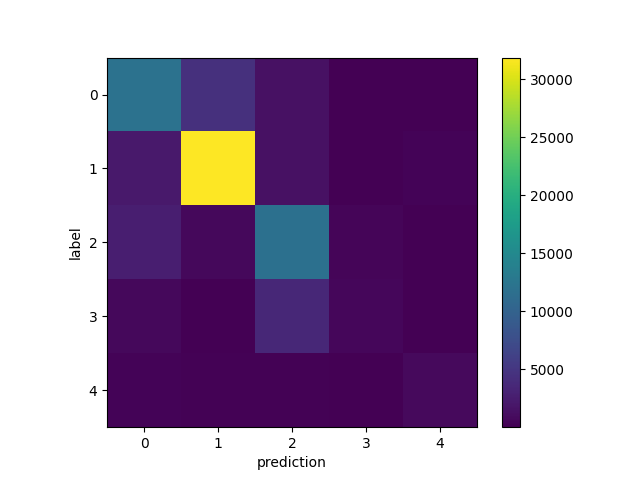
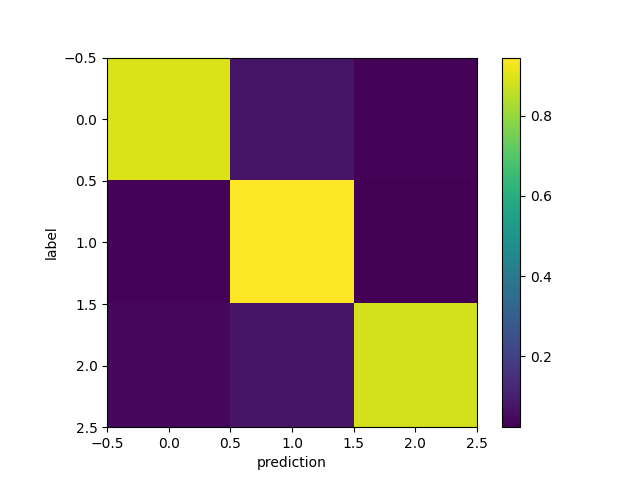
trained 90+% accuracy cnn, but for only 3 classes

diff --git a/scorer/data/loaders.py b/scorer/data/loaders.py
@@ -37,10 +37,12 @@ class SleepSignals(Dataset):
         self.channel_ylims = []
         
         self._load(data_path, score_path)
-                
+        
         #move to device after loading        
         self.all_samples = self.all_samples.to(device)
         self.all_labels = self.all_labels.to(device)
+        
+        self.mean, self.std = self._compute_mean_std() 
         
         self.device = device
         self.transform = transform
@@ -241,6 +243,18 @@ class SleepSignals(Dataset):
         print('ylims in loaders.py', ylims)
         return ylims
     
+    def _compute_mean_std(self):
+            """
+            compute mean and std of dataset per-channel (8 vals each)
+            """
+            X = self.all_samples
+            mean = X.mean(dim=(0, 2))
+            std  = X.std(dim=(0, 2))
+            # avoid divide by zero/low val in later norm
+            std[std < 1e-8] = 1.0
+            
+            return mean, std
+    
     
 class SleepTraining(Dataset):
     """
@@ -256,7 +270,11 @@ class SleepTraining(Dataset):
           3:'IS',
           4:'REM'
     """
-    def __init__(self, data_path, random_state = 0, n_files_to_pick = 100, device = 'cuda', transform = None, augment = False, metadata: dict = {}) -> None:
+    def __init__(self, data_path, random_state = 0,
+                 n_files_to_pick = 100, device = 'cuda', 
+                 transform = None, augment = False,
+                 metadata: dict = {}, balance: str = "none", # "none" | "undersample" | "oversample") -> None:
+                 exclude_labels: tuple = ()):  
         
         torch.manual_seed(random_state)
 
@@ -266,10 +284,16 @@ class SleepTraining(Dataset):
         self.all_labels = None
         
         self._load(data_path, n_files_to_pick)
+        
+        if balance != "none":
+            self._balance_labels(balance=balance, exclude_labels=exclude_labels, seed=random_state)
+            self._remap_labels_to_contiguous()
                 
         #move to device after loading        
         self.all_samples = self.all_samples.to(device)
         self.all_labels = self.all_labels.to(device)
+        
+        self.mean, self.std = self._compute_mean_std() 
         
         self.device = device
         self.transform = transform
@@ -351,12 +375,107 @@ class SleepTraining(Dataset):
         if random.random() < 0.5:
             max_shift = int(x.shape[1] * 0.02)  # 2% of sequence length
             shift = random.randint(-max_shift, max_shift)
-            if shift > 0:
-                x = torch.cat([x[:, shift:], x[:, :shift]], dim=0)
-            elif shift < 0:
-                x = torch.cat([x[:, shift:], x[:, :shift]], dim=0)
+            x = torch.roll(x, shifts=shift, dims=1)
+            
         return x
     
+    def _compute_mean_std(self):
+            """
+            compute mean and std of dataset per-channel (8 vals each)
+            """
+            X = self.all_samples
+            mean = X.mean(dim=(0, 2))
+            std  = X.std(dim=(0, 2))
+            # avoid divide by zero/low val in later norm
+            std[std < 1e-8] = 1.0
+            
+            return mean, std
+        
+    def _balance_labels(self, balance="undersample", exclude_labels=(0,), seed=0):
+        """
+        balance: "undersample" (downsample to min class) or "oversample" (upsample to max class)
+        exclude_labels: labels to remove before balancing  (0 for unlabeled)
+        """
+        if balance not in ("undersample", "oversample"):
+            raise ValueError(f"balance must be 'undersample' or 'oversample', got {balance}")
+
+        # on CPU for indexing
+        labels = self.all_labels
+        if labels.is_cuda:
+            labels = labels.cpu()
+
+        # exclude labels
+        keep_mask = torch.ones_like(labels, dtype=torch.bool)
+        for lab in exclude_labels or ():
+            keep_mask &= (labels != lab)
+
+        keep_idx = torch.where(keep_mask)[0]
+        if keep_idx.numel() == 0:
+            raise RuntimeError("after excluding labels, no samples remain.")
+        labels_kept = labels[keep_idx]
+
+        # get idx per class
+        classes = torch.unique(labels_kept).tolist()
+        per_class = {}
+        for c in classes:
+            per_class[c] = keep_idx[torch.where(labels_kept == c)[0]]
+
+        counts = {c: int(per_class[c].numel()) for c in classes}
+        print("class counts before balance:", counts)
+
+        if balance == "undersample":
+            target = min(counts.values())
+            replace = False
+        else:  # oversample
+            target = max(counts.values())
+            replace = True
+
+        g = torch.Generator().manual_seed(seed)
+        balanced_idx = []
+        for c in classes:
+            idx_c = per_class[c]
+            if idx_c.numel() == 0:
+                continue
+            if replace:
+                # sample with replacement up to target
+                pick = idx_c[torch.randint(0, idx_c.numel(), (target,), generator=g)]
+            else:
+                # sample without replacement down to target
+                perm = idx_c[torch.randperm(idx_c.numel(), generator=g)[:target]]
+                pick = perm
+
+            balanced_idx.append(pick)
+        balanced_idx = torch.cat(balanced_idx)
+        # shuffle final set
+        balanced_idx = balanced_idx[torch.randperm(balanced_idx.numel(), generator=g)]
+
+        # Apply subset
+        self.all_samples = self.all_samples[balanced_idx]
+        self.all_labels = self.all_labels[balanced_idx]
+
+        # Print after
+        labels2 = self.all_labels
+        if labels2.is_cuda:
+            labels2 = labels2.cpu()
+        new_counts = {int(c): int((labels2 == c).sum()) for c in torch.unique(labels2)}
+        print("class counts after balance :", new_counts)
+        
+    def _remap_labels_to_contiguous(self):
+        # make labels 0..K-1
+        labels_cpu = self.all_labels.detach().cpu()
+        uniq = torch.unique(labels_cpu)
+        mapping = {int(old): i for i, old in enumerate(uniq.tolist())}
+
+        # vectorized remap
+        new = torch.empty_like(labels_cpu)
+        for old, new_id in mapping.items():
+            new[labels_cpu == old] = new_id
+
+        self.label_mapping = mapping          # e.g. {1:0, 2:1, 4:2}
+        self.inv_label_mapping = {v:k for k,v in mapping.items()}
+        self.all_labels = new.to(self.all_labels.device)
+
+        print("label remap:", self.label_mapping)
     
 if __name__ == "__main__":
     dataset = SleepTraining(

diff --git a/scorer/models/scoring.py b/scorer/models/scoring.py
@@ -3,13 +3,17 @@
 #do scoring: launcher function 
 from scorer.data.loaders import SleepSignals
 from scorer.models.heuristic_scorer import HeuristicScorer
-from scorer.models.heuristic_scorer_v2 import HeuristicScorer2
+# from scorer.models.heuristic_scorer_v2 import HeuristicScorer2
+from scorer.models.sleep_cnn import SleepCNN
 from scorer.data.storage import save_pickled_states
 import numpy as np
 from sklearn.metrics import confusion_matrix, ConfusionMatrixDisplay, accuracy_score
 import matplotlib.pyplot as plt
 from pathlib import Path
-
+import torch
+from torch.utils.data import DataLoader
+import torch.nn.functional as F
+import tqdm
 
 def score_signal(data_path, state_save_folder, meta, scorer_type = 'heuristic'):
     """
@@ -21,23 +25,44 @@ def score_signal(data_path, state_save_folder, meta, scorer_type = 'heuristic'):
     state_save_folder is passed from GUI selection
     
     """
-    available_scorers = {'heuristic': HeuristicScorer}
+    available_scorers = {'heuristic': HeuristicScorer, 'CNN': SleepCNN}
     
     selected_scorer = available_scorers.get(scorer_type)
-    if selected_scorer is not None:
-        dataset = SleepSignals(data_path = data_path, 
-                               score_path = data_path, 
-                               device = meta.get('device', 'cpu'),
-                               transform = None,
-                               augment = False,
-                               spectral_features = None,
-                               metadata = meta)
+    
+    dataset = SleepSignals(data_path = data_path, 
+                        score_path = data_path, 
+                        device = meta.get('device', 'cpu'),
+                        transform = None,
+                        augment = False,
+                        spectral_features = None,
+                        metadata = meta)
+    
+    if selected_scorer == HeuristicScorer:
         scorer = selected_scorer(dataset)
         scorer.score()
         print(scorer)
         state_save_path = Path(state_save_folder) / str(meta.get('scoring_started', '') + '_' + meta.get('filename', '') + scorer_type + '_states.pkl')
         save_pickled_states(np.array(scorer.states), state_save_path)
         print(f'scoring done, states saved as {state_save_path}')
+        
+    elif selected_scorer == SleepCNN:
+        loader = DataLoader(dataset, batch_size = 64, shuffle = False)
+        #predict 
+        scorer = torch.load(r'C:\Users\marty\Projects\scorer\scorer\models\weights\sleepcnn2026-01-20.pt', weights_only= False)
+        all_preds = []
+        scorer.eval()
+        with torch.no_grad():
+            for i, data in tqdm.tqdm(enumerate(loader)):
+                sample, label = data
+                outputs = scorer(sample)
+                _, pred = torch.max(outputs.data, 1)
+                #to get final predictions
+                all_preds.extend(pred.to('cpu').numpy().tolist())
+                
+        state_save_path = Path(state_save_folder) / str(meta.get('scoring_started', '') + '_' + meta.get('filename', '') + scorer_type + '_states.pkl')
+        save_pickled_states(np.array(all_preds), state_save_path)
+        print(f'scoring done, states saved as {state_save_path}')
+
     else:
         print(f'unavailable scorer selected: {scorer_type}')
     
@@ -55,7 +80,7 @@ if __name__ == "__main__":
         spectral_features = None,
         metadata = {'ecog_channels' : '1', 'emg_channels' : '2', 'sample_rate' : '250', 'ylim' : 'standard'}
     )    
-    scorer = HeuristicScorer2(dataset)
+    scorer = HeuristicScorer(dataset)
     scorer.score()
     print(scorer)
 

diff --git a/scorer/models/training_testing.py b/scorer/models/training_testing.py
@@ -108,7 +108,7 @@ def eval_plots(all_labels, all_preds, maxprobs, save_path):
         4 : "REM"
     }
 
-    im = plt.imshow(confusion_matrix(all_labels, all_preds))#could normalize also
+    im = plt.imshow(confusion_matrix(all_labels, all_preds, normalize = 'true'))#could normalize also
     cb = plt.colorbar(im)
     plt.xlabel('prediction')
     plt.ylabel('label')
@@ -130,7 +130,7 @@ def eval_plots(all_labels, all_preds, maxprobs, save_path):
     plt.close()
 
     #[0-unlabeled, 1-AWAKE, 2-NREM, 3-IS, 4-REM]
-    print(classification_report(all_labels, all_preds, target_names = ["0-unlabeled", "1-AWAKE", "2-NREM", "3-IS", "4-REM"]))        
+    print(classification_report(all_labels, all_preds, target_names = ["1-AWAKE", "2-NREM", "4-REM"]))        #"0-unlabeled", "3-IS", 
 
 
 if __name__ == "__main__":
@@ -144,12 +144,14 @@ if __name__ == "__main__":
     #load dataset
     dataset = SleepTraining(
         data_path = 'G:/oslo_data',
-        n_files_to_pick = 400,
+        n_files_to_pick = 300,
         random_state = 0,
         device = 'cuda',
         transform = None,
-        augment = False,
-        metadata = metadata
+        augment = True,
+        metadata = metadata, 
+        balance = 'oversample',
+        exclude_labels = (0, 3)
     )    
     
     #create dataloaders
@@ -169,29 +171,35 @@ if __name__ == "__main__":
     testloader = DataLoader(val_set, batch_size = 64)
     num_classes = len(torch.unique(dataset.all_labels))
     device = metadata.get('device', 'cuda')
+    
+    model_name = 'weights/sleepcnn2026-01-20-3.pt'
         
-    #create model
-    model = SleepCNN(num_classes = num_classes).to(device= device)
-    #crossentropy loss
-    criterion = nn.CrossEntropyLoss() # crossentropy for classification
-    # optimizer adam
-    optimizer = optim.Adam(model.parameters(),lr = 1e-3)
+    # #create model
+    # model = SleepCNN(num_classes = num_classes, mean_std = (dataset.mean, dataset.std)).to(device= device)
+    # #crossentropy loss
+    # criterion = nn.CrossEntropyLoss() # crossentropy for classification
+    # # optimizer adam
+    # optimizer = optim.Adam(model.parameters(),lr = 1e-3)
        
-    #train 
-    losses = train_model(model, trainloader, optimizer, criterion, device = 'cuda', epochs = 200, save_n_epochs = 20, save_path = save_path)
-    #could add save every X epochs
+    # #train 
+    # losses = train_model(model, trainloader, optimizer, criterion, device = 'cuda', epochs = 200, save_n_epochs = 20, save_path = save_path)
+    # #could add save every X epochs
     
-    #should add save model, then load later if needed
-    torch.save(model, save_path / 'weights/sleepcnn2026-01-20.pt')
+    # #should add save model, then load later if needed
+    # torch.save(model, save_path / model_name)
+          
+    # #plot loss
+    # plt.plot(losses)
+    # plt.savefig(save_path / 'training_plots/loss.png')
+    # plt.close()
     
-    #plot loss
-    plt.plot(losses)
-    plt.savefig(save_path / 'training_plots/loss.png')
-    plt.close()
+    #3 cat to 5 cat
+    #5 cat to 3 cat
+    
+    model = torch.load(save_path / model_name, weights_only= False)
     
     all_labels, all_preds, maxprobs = evaluate_model(model, testloader)
     
     print(accuracy_score(all_labels, all_preds))
     
     eval_plots(all_labels, all_preds, maxprobs, save_path)
-    #also augment the data later

diff --git a/scorer/models/sleep_cnn.py b/scorer/models/sleep_cnn.py
@@ -3,8 +3,11 @@ import torch.nn as nn
 import torch.nn.functional as F
 
 class SleepCNN(nn.Module):
-    def __init__(self, num_classes):
+    def __init__(self, num_classes: int, mean_std = None):
         super().__init__()             
+    
+        self.mean_std = mean_std if mean_std is not None else None  #standardize
+        
         # "Feature extraction"
         self.conv1 = nn.Conv1d(8, 16, kernel_size = 11, padding = 5)
         self.conv2 = nn.Conv1d(16, 32, kernel_size = 7, padding = 3)
@@ -23,7 +26,9 @@ class SleepCNN(nn.Module):
         
     def forward(self, x):
         
-        # x = x.permute(0, 2, 1) #not needed as loader is fixed
+        if self.mean_std is not None:
+            mean, std = self.mean_std
+            x = (x - mean[None, :, None]) / std[None, :, None]
         
         x = F.relu(self.conv1(x))
         x = self.pool(x)

diff --git a/scorer/gui/autoscoring_widgets.py b/scorer/gui/autoscoring_widgets.py
@@ -12,7 +12,7 @@ class AutoScoringWidget(QWidget):
         super().__init__()
         
         self.params = meta
-        available_models = ['select model', 'heuristic']
+        available_models = ['select model', 'heuristic', 'CNN']
         layout = QVBoxLayout(self)
         
         self.file_folder = '.'
